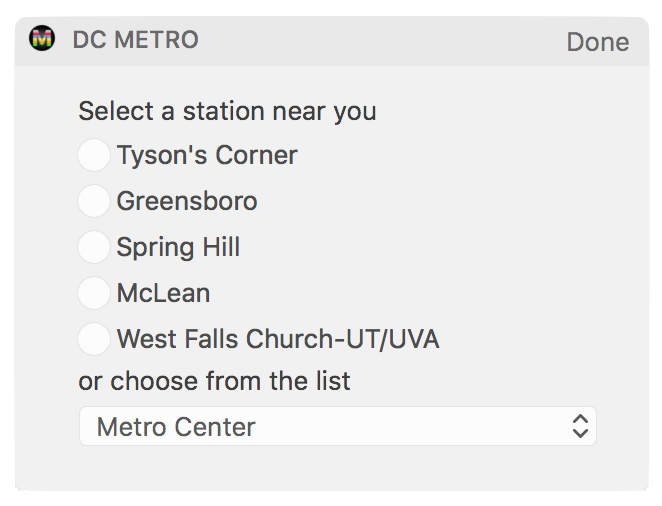
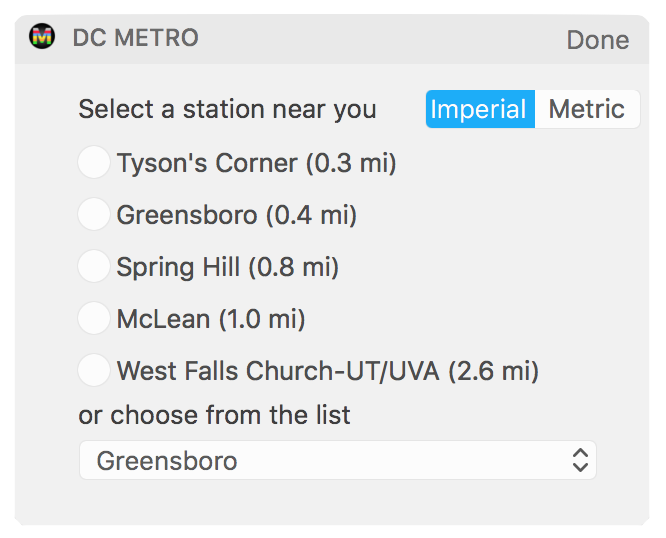
added segmented control to adjust distance units

diff --git a/DCMetroWidget/SettingsViewController.swift b/DCMetroWidget/SettingsViewController.swift
@@ -27,6 +27,8 @@ class SettingsViewController: NCWidgetListViewController {
 	@IBOutlet weak var chooseFromListTextField: NSTextField!
 	@IBOutlet weak var stationPopUpButton: NSPopUpButton!
 	
+	@IBOutlet weak var unitsSegmentedControl: NSSegmentedControl!
+	
 	override var nibName: String? {
 		return "SettingsViewController"
 	}
@@ -34,6 +36,7 @@ class SettingsViewController: NCWidgetListViewController {
 	override func viewDidLoad() {
 		super.viewDidLoad()
 		setupPopUpButton()
+		UserDefaults.standard.bool(forKey: "isMetric") ? unitsSegmentedControl.setSelected(true, forSegment: 1) : unitsSegmentedControl.setSelected(true, forSegment: 0)
 	}
 	
 	override func viewWillAppear() {
@@ -47,11 +50,7 @@ class SettingsViewController: NCWidgetListViewController {
 		if currentLocation != nil {
 			selectStationAndRadioButtonsHeightConstraint.constant = 23
 			chooseFromListTextField.stringValue = "or choose from the list"
-			for (index, radioButton) in stationRadioButtons.enumerated() {
-				radioButton.isHidden = false
-				let station = fiveClosestStations[index]
-				stationRadioButtons[index].title = station.description + String(format: " (%@)", WMATAfetcher.getDistanceFromStation(location: currentLocation!, station: station, isMetric: false))
-			}
+			populateStationRadioButtonTitles()
 		} else {
 			selectStationAndRadioButtonsHeightConstraint.constant = 2
 			chooseFromListTextField.stringValue = "Choose a station from the list"
@@ -91,6 +90,11 @@ class SettingsViewController: NCWidgetListViewController {
 		setSelectedStation(sender.selectedItem?.representedObject as! String)
 	}
 	
+	@IBAction func touchUnitsSegmentedControl(_ sender: NSSegmentedControl) {
+		unitsSegmentedControl.isSelected(forSegment: 1) ? UserDefaults.standard.set(true, forKey: "isMetric") : UserDefaults.standard.set(false, forKey: "isMetric")
+		populateStationRadioButtonTitles()
+	}
+	
 	func setSelectedStation(_ selectedStationCode: String) {
 		for radioButton in stationRadioButtons {
 			radioButton.state = NSOffState
@@ -100,6 +104,15 @@ class SettingsViewController: NCWidgetListViewController {
 		UserDefaults.standard.set(selectedStation.rawValue, forKey: "selectedStation")
 		
 		didSelectStation = true
+	}
+	
+	func populateStationRadioButtonTitles() {
+		for (index, radioButton) in stationRadioButtons.enumerated() {
+			radioButton.isHidden = false
+			let station = fiveClosestStations[index]
+			let distance = WMATAfetcher.getDistanceFromStation(location: currentLocation!, station: station, isMetric: unitsSegmentedControl.isSelected(forSegment: 1))
+			stationRadioButtons[index].title = station.description + String(format: " (%@)", distance)
+		}
 	}
 	
 }
